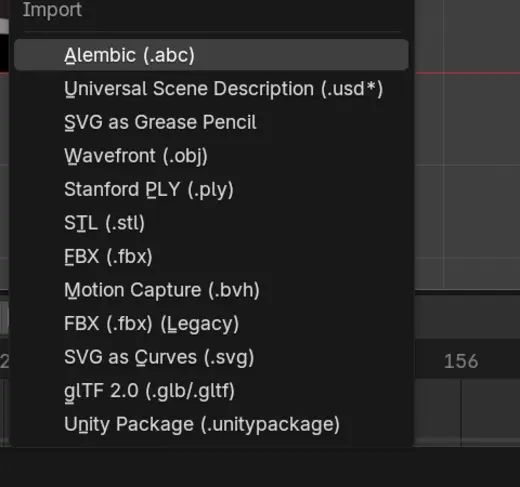
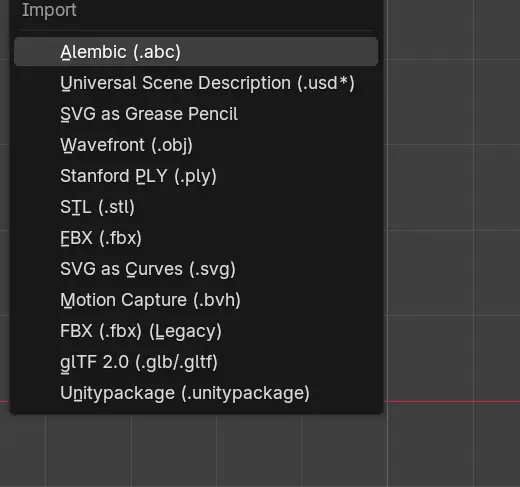
docs: 紹介ページの名前・メニュー・タブの表記を揃え、メニューのスクリーンショットを撮り直す
- JSON-LD の alternateName にあった旧名を削除し、名前を Unitypackage Importer だけにした
- 導入手順の「〜を検索」、メニューの項目名、FAQ のサイドバーのタブ名（UPI）を新しい表記にした
- shot-menu.webp を tools/shoot_screenshots.py の menu で撮り直し、同じ 520×487 で切り出した
- 撮影スクリプトが選ぶサイドバーのタブの既定値を UPI にした

Claude-Session: https://claude.ai/code/session_01AeFM7kyzyE2BDF3QwzdCQx

diff --git a/web/ja/index.html b/web/ja/index.html
@@ -47,7 +47,6 @@
   "@context": "https://schema.org",
   "@type": "SoftwareApplication",
   "name": "Unitypackage Importer",
-  "alternateName": "Unity Package Importer for Blender",
   "applicationCategory": "DesignApplication",
   "applicationSubCategory": "Blender extension",
   "operatingSystem": "Windows, macOS, Linux",
@@ -294,16 +293,16 @@
                 <code id="repo-url">{{BASE_URL}}/index.json</code>
                 <button class="btn btn-primary copy-btn" type="button" data-copy="{{BASE_URL}}/index.json" data-copied-label="コピーしました">コピー</button>
               </div>
-              <p>あとは「エクステンション入手」で <b>Unity Package Importer</b> を検索して、インストールします。</p>
+              <p>あとは「エクステンション入手」で <b>Unitypackage Importer</b> を検索して、インストールします。</p>
             </div>
           </div>
         </div>
         <div class="install-step">
           <h3><span class="num">2</span>パッケージをドロップ</h3>
-          <p><code>.unitypackage</code> を 3D ビューポートにドラッグ＆ドロップするか、ファイル &gt; インポート &gt; Unity Package を選びます。ポップアップで Import を押せば読み込みが始まります。複数のファイルを一度にドロップしても大丈夫です。</p>
+          <p><code>.unitypackage</code> を 3D ビューポートにドラッグ＆ドロップするか、ファイル &gt; インポート &gt; Unitypackage を選びます。ポップアップで Import を押せば読み込みが始まります。複数のファイルを一度にドロップしても大丈夫です。</p>
           <div class="shots">
             <figure class="shot">
-              <div class="frame"><img src="../assets/shot-menu.webp" width="520" height="487" alt="Blender のファイル > インポートメニューに Unity Package (.unitypackage) の項目が並んでいるところ" loading="lazy"></div>
+              <div class="frame"><img src="../assets/shot-menu.webp" width="520" height="487" alt="Blender のファイル > インポートメニューに Unitypackage (.unitypackage) の項目が並んでいるところ" loading="lazy"></div>
               <figcaption>ファイル &gt; インポート に項目が追加されます。ビューポートへのドラッグ＆ドロップでも同じオプションが開きます。</figcaption>
             </figure>
             <figure class="shot">
@@ -379,7 +378,7 @@
         <details>
           <summary>うまく読み込めないときは？</summary>
           <div class="answer">
-            <p>サイドバー（N キー）の「Unity Package」タブに、読み込んだ内容、マテリアルごとの結果、警告が表示されます。それでも解決しないときは、<a href="https://github.com/utagestudio/unitypackage_loader/issues">GitHub の Issues</a> で知らせてください。</p>
+            <p>サイドバー（N キー）の「UPI」タブに、読み込んだ内容、マテリアルごとの結果、警告が表示されます。それでも解決しないときは、<a href="https://github.com/utagestudio/unitypackage_loader/issues">GitHub の Issues</a> で知らせてください。</p>
           </div>
         </details>
       </div>

diff --git a/web/index.html b/web/index.html
@@ -47,7 +47,6 @@
   "@context": "https://schema.org",
   "@type": "SoftwareApplication",
   "name": "Unitypackage Importer",
-  "alternateName": "Unity Package Importer for Blender",
   "applicationCategory": "DesignApplication",
   "applicationSubCategory": "Blender extension",
   "operatingSystem": "Windows, macOS, Linux",
@@ -294,16 +293,16 @@
                 <code id="repo-url">{{BASE_URL}}/index.json</code>
                 <button class="btn btn-primary copy-btn" type="button" data-copy="{{BASE_URL}}/index.json" data-copied-label="Copied">Copy</button>
               </div>
-              <p>Then search for <b>Unity Package Importer</b> in Get Extensions and click Install.</p>
+              <p>Then search for <b>Unitypackage Importer</b> in Get Extensions and click Install.</p>
             </div>
           </div>
         </div>
         <div class="install-step">
           <h3><span class="num">2</span>Drop a package</h3>
-          <p>Drag a <code>.unitypackage</code> onto the 3D Viewport, or use File &gt; Import &gt; Unity Package. Press Import in the popup and the package loads. Several files at once are fine.</p>
+          <p>Drag a <code>.unitypackage</code> onto the 3D Viewport, or use File &gt; Import &gt; Unitypackage. Press Import in the popup and the package loads. Several files at once are fine.</p>
           <div class="shots">
             <figure class="shot">
-              <div class="frame"><img src="assets/shot-menu.webp" width="520" height="487" alt="Blender's File Import menu with an entry reading Unity Package (.unitypackage)" loading="lazy"></div>
+              <div class="frame"><img src="assets/shot-menu.webp" width="520" height="487" alt="Blender's File Import menu with an entry reading Unitypackage (.unitypackage)" loading="lazy"></div>
               <figcaption>The add-on registers itself under File &gt; Import. Dropping a file on the viewport opens the same options.</figcaption>
             </figure>
             <figure class="shot">
@@ -379,7 +378,7 @@
         <details>
           <summary>Something did not import right. What now?</summary>
           <div class="answer">
-            <p>The "Unity Package" tab in the sidebar (N key) shows what was imported, how each material was resolved, and any warnings. If that does not help, please let us know in <a href="https://github.com/utagestudio/unitypackage_loader/issues">GitHub Issues</a>.</p>
+            <p>The "UPI" tab in the sidebar (N key) shows what was imported, how each material was resolved, and any warnings. If that does not help, please let us know in <a href="https://github.com/utagestudio/unitypackage_loader/issues">GitHub Issues</a>.</p>
           </div>
         </details>
       </div>

diff --git a/tools/shoot_screenshots.py b/tools/shoot_screenshots.py
@@ -129,7 +129,7 @@ def setup_viewport(sidebar: bool = True) -> None:
     space.show_region_ui = sidebar
 
 
-def select_sidebar_tab(category: str = "Unity Package") -> None:
+def select_sidebar_tab(category: str = "UPI") -> None:
     """サイドバーのタブを選ぶ。領域が一度描画されるまで書き込めないので、手順の中で呼ぶ。"""
     area, _ = view3d()
     ui = next((r for r in area.regions if r.type == "UI"), None)
